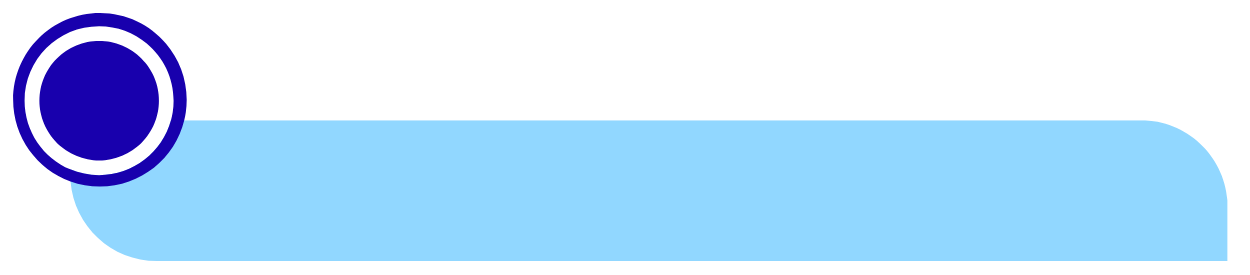
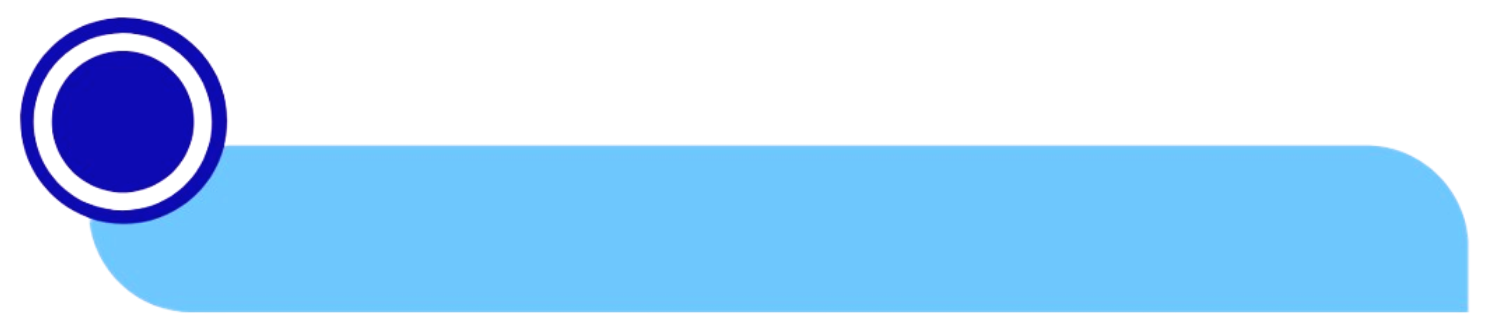
working on suggsted career path

diff --git a/resources/views/student/assessment/report-pdf.blade.php b/resources/views/student/assessment/report-pdf.blade.php
@@ -9,6 +9,7 @@
         * {
             margin: 0;
             /* padding: 0; */
+
         }
 
         body {
@@ -416,33 +417,7 @@
             width: 100%;
         }
 
-        /* Main footer body */
-        /* .pdf-footer .footer-inner {
-            background: #ffffff;
-            height: 56px;
-            display: flex;
-            align-items: center;
-            justify-content: space-between;
-            position: relative;
-            padding: 8px 16px;
-        }
 
-        .pdf-footer .footer-left,
-        .pdf-footer .footer-center,
-        .pdf-footer .footer-right {
-            font-size: 10px;
-            color: #4b5563;
-        }
-
-        .pdf-footer .footer-center {
-            text-align: center;
-            flex: 1;
-        }
-
-        .pdf-footer .footer-right {
-            text-align: right;
-            min-width: 80px;
-        } */
 
         .pdf-footer {
             position: fixed;
@@ -454,15 +429,7 @@
             background: #ffffff;
         }
 
-        /* .footer-top-stripe-1 {
-            height: 2px;
-            background: #9f1d1d;
-        }
 
-        .footer-top-stripe-2 {
-            height: 2px;
-            background: #f59e0b;
-        } */
 
         .footer-inner {
             padding: 10px 32px;
@@ -686,6 +653,27 @@
         .interest-right>div {
             margin-bottom: 4px;
         }
+
+
+        /* Suggested career path css  */
+        .h2-banner-suggested-career {
+            position: relative;
+            height: 70px;
+            width: 520px;
+            /* Match Canva pill width */
+
+            background-image: url('{{ asset('images/careerpath.png') }}');
+            background-repeat: no-repeat;
+            background-position: left center;
+            background-size: contain;
+            /* IMPORTANT */
+
+            display: flex;
+            align-items: center;
+
+            margin: 20px 0 20px 80px;
+            /* Match left offset like Canva */
+        }
     </style>
     @php use Illuminate\Support\Str; @endphp
     @php $student = $student ?? auth()->user(); @endphp
@@ -856,16 +844,18 @@
                 {{-- new code --}}
                 <div class="section-contaner">
                     @foreach ($sections['cards'] ?? [] as $index => $section)
-                        <table width="100%" cellpadding="0" cellspacing="0" style="margin-bottom:8px; border: none;">
+                        <table width="100%" cellpadding="0" cellspacing="0">
                             <tr>
                                 {{-- LEFT COLUMN --}}
                                 <td width="80" valign="top" style="border: none;">
 
                                     <div class="titlebackground">
-                                        <div class="interest-badge" style="margin-top: 12px; margin-left: 46px; font-size: 11px;">
+                                        <div class="interest-badge"
+                                            style="margin-top: 12px; margin-left: 46px; font-size: 11px;">
                                             {{ str_pad($index + 1, 2, '0', STR_PAD_LEFT) }}
                                         </div>
-                                        <div class="interest-title" style="margin-top: 23px; margin-left: 55px; font-size: 15px;">
+                                        <div class="interest-title"
+                                            style="margin-top: 23px; margin-left: 55px; font-size: 15px;">
                                             {{ $section['section_name'] }}
                                         </div>
                                     </div>
@@ -913,24 +903,22 @@
                         </table>
                     @endforeach
                 </div>
-
-
-
-
-
-
-
             </div>
 
             <div class="page-break"></div>
+
+
 
             <div class="pdf-page careerpath-section">
                 @if (!empty($sections['cards']) && $domainName !== 'GOAL ORIENTATION')
                     @php
                         $careerPathSections = $sections['cards'];
                     @endphp
-                    <div class="h2-banner">
-                        <h2 class="h2-title">Suggested Career Paths</h2>
+                    <div class="h2-banner-suggested-career">
+                        <h2 class="h2-title" style="color: white; font-size: 18px; font-weight: 800; margin-top: 20px; text-transform: uppercase;">
+                            Suggested Career Paths
+                        </h2>
+
                     </div>
                     <div class="career-table">
                         <table>
@@ -956,12 +944,6 @@
                                             <td style="width: 30%">{{ $sec['section_name'] }}</td>
                                             <td>
                                                 @if ($combinedCareers->count() > 0)
-                                                    {{-- @foreach ($combinedCareers as $career)
-                                                        <span class="badge">
-                                                            {!! $career->name !!}
-                                                        </span>
-                                                    @endforeach --}}
-
                                                     {{-- now merge and show single career cluster  --}}
                                                     @php
                                                         $uniqueCategories = $combinedCareers
@@ -987,6 +969,7 @@
                     </div>
                 @endif
             </div>
+
 
             <div class="page-break"></div>
 
